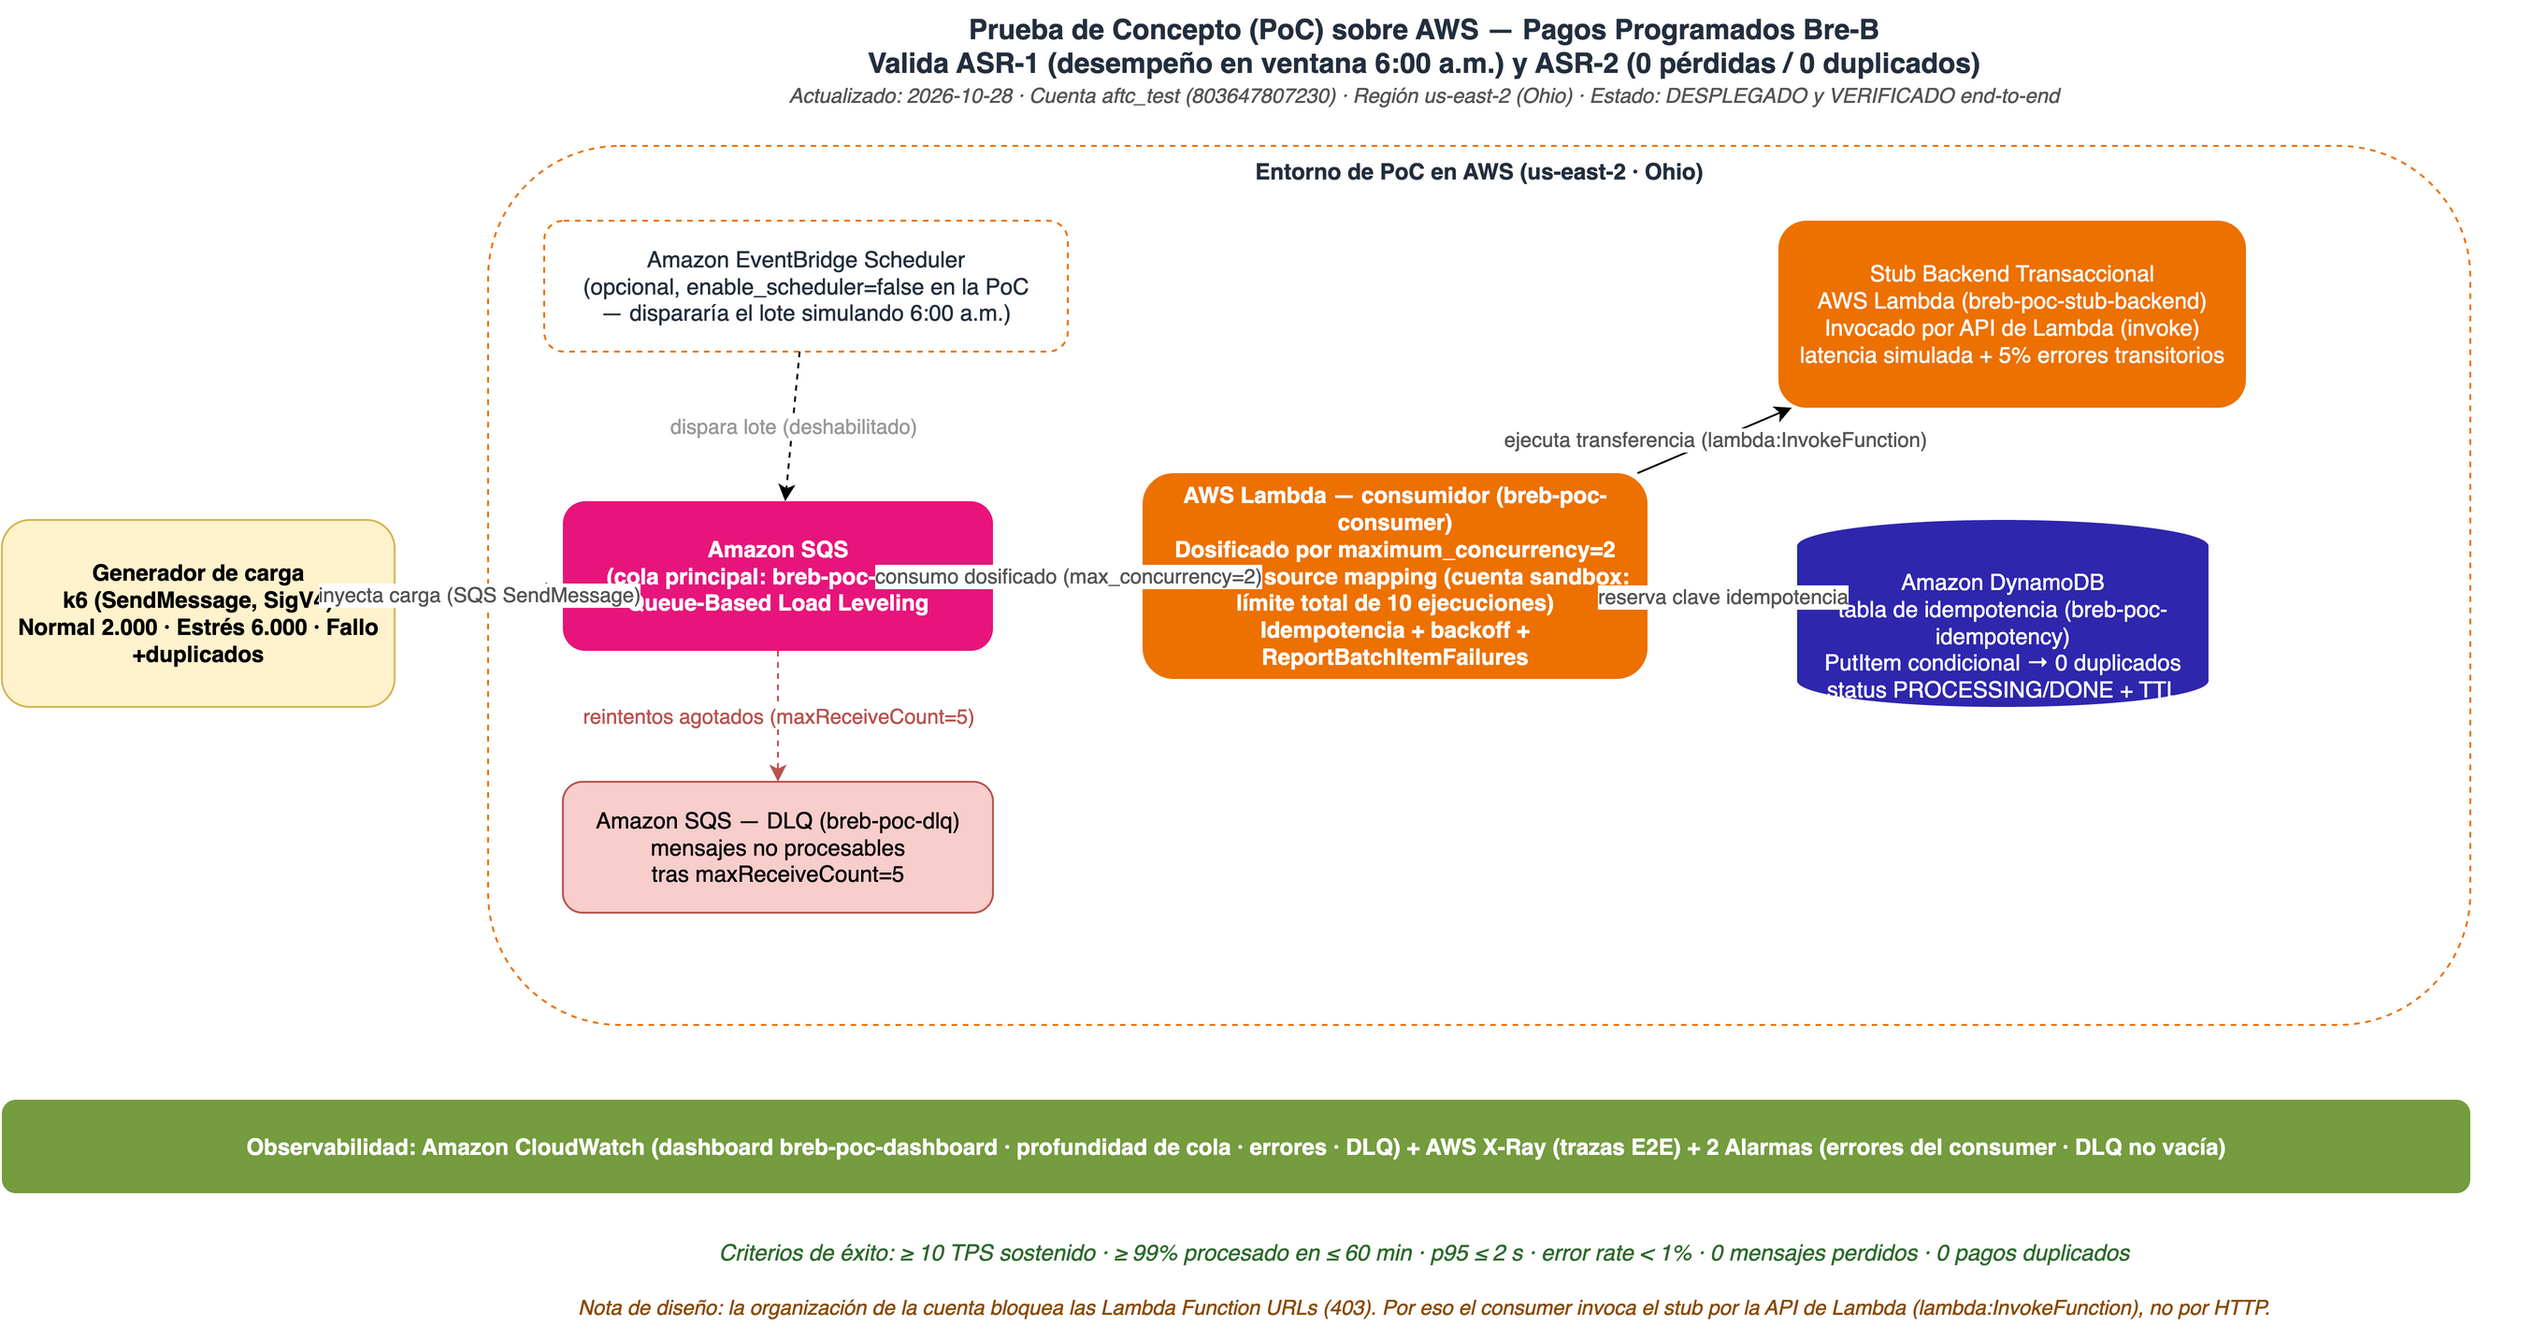
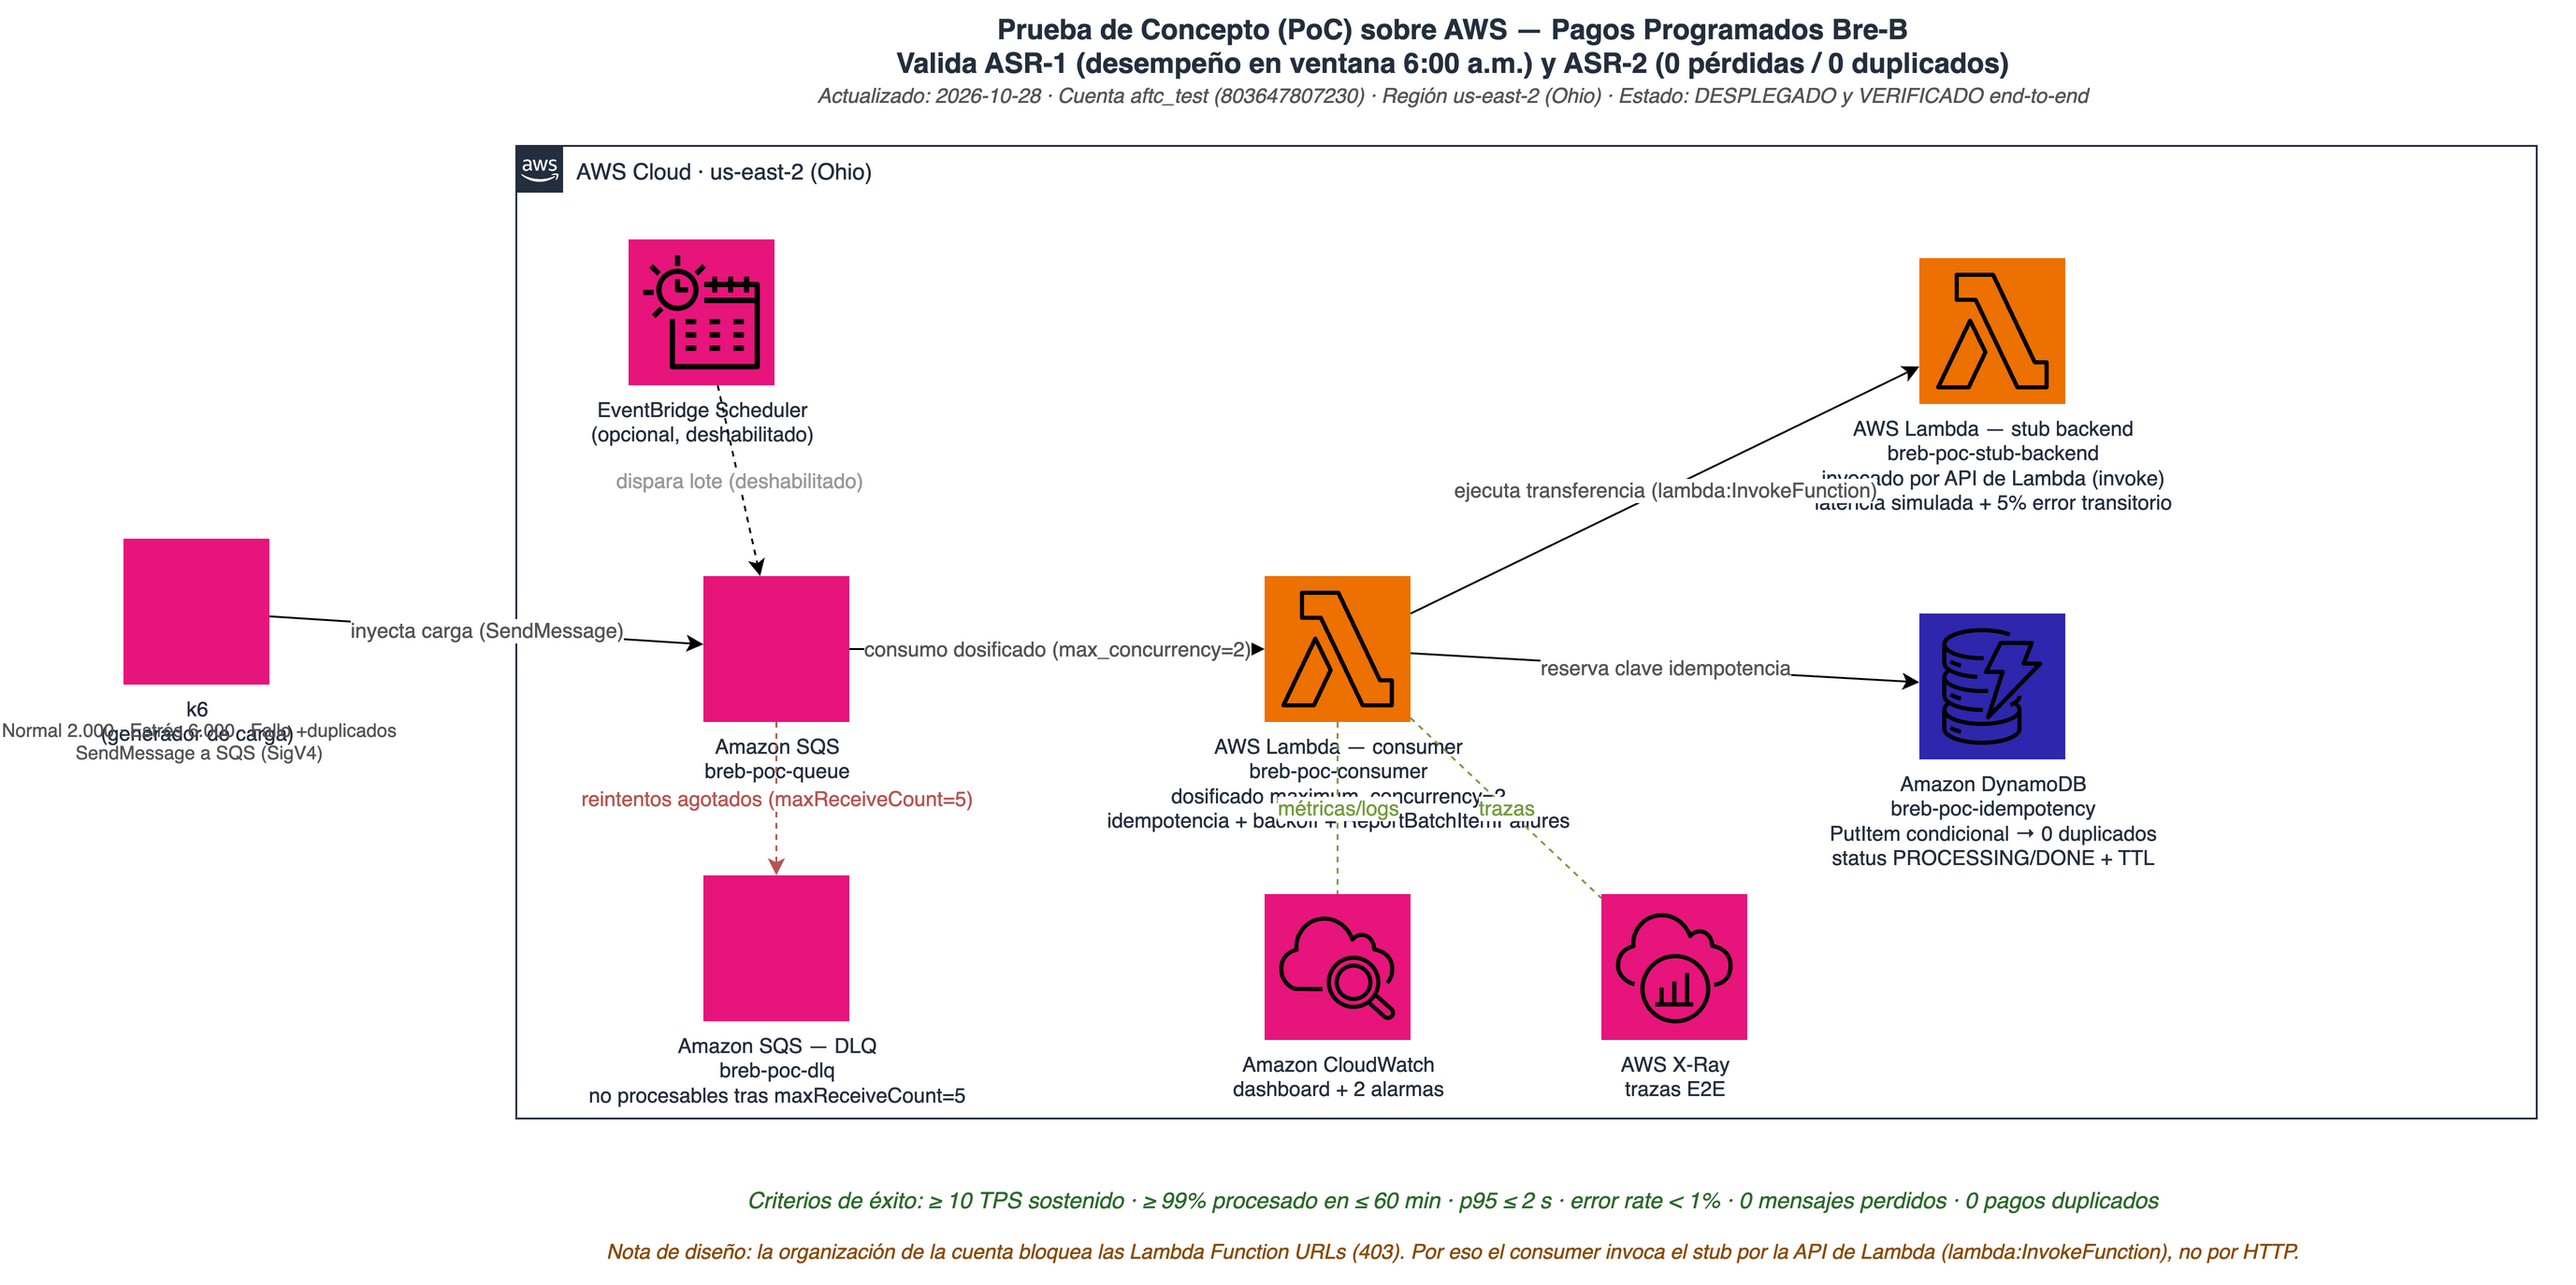
docs: diagrama con iconos oficiales de AWS (mxgraph.aws4) + PNG + sesion: fix credenciales k6

diff --git a/ESTADO_SESION.md b/ESTADO_SESION.md
@@ -101,6 +101,44 @@ Al preparar k6 aparecieron dos problemas en CloudShell:
 Tras liberar espacio y exportar credenciales (ver Key=ASIA... Token set? yes),
 reintentar: `export QUEUE_URL=...; cd ~/ArquitecturaCloudPoc/load; TOTAL=100 k6 run normal.js`
 
+## DÓNDE VAMOS EXACTAMENTE (2026-10-28 ~01:30)
+
+Estado: PoC desplegada y VERIFICADA end-to-end (processed + DynamoDB DONE). ✅
+Diagrama rehecho con ÍCONOS OFICIALES de AWS (shapes mxgraph.aws4) + PNG regenerado.
+Guía de consola web creada. Todo en GitHub.
+
+Tarea en curso: correr pruebas de carga k6 desde CloudShell. Pasos ya resueltos:
+- k6 instalado en ~/bin/k6 (v0.49.0). OK.
+- Espacio: home al 92% (ArquitecturaCloudPoc pesa 693M, sobre todo .git/.terraform).
+  No bloquea k6. Limpieza opcional: `git gc --aggressive --prune=now`.
+- Credenciales: obtenerlas SOLO con `eval "$(aws configure export-credentials --format env)"`.
+  NO usar el fallback de jq/python (devuelve vacío y las pisa).
+
+PROBLEMA ACTUAL: aunque las vars están exportadas (AKID=ASIA3W SECRET? yes TOKEN? yes),
+k6 sigue diciendo "invalid AWS access key ID ... undefined". Causa: k6 no copia el
+entorno a __ENV de forma fiable. SOLUCIÓN: pasar las credenciales con -e explícito:
+
+```bash
+export AWS_REGION=us-east-2
+eval "$(aws configure export-credentials --format env)"
+export QUEUE_URL=$(cd ~/ArquitecturaCloudPoc/terraform && terraform output -raw queue_url)
+cd ~/ArquitecturaCloudPoc/load
+k6 run \
+  -e AWS_REGION=us-east-2 \
+  -e AWS_ACCESS_KEY_ID="$AWS_ACCESS_KEY_ID" \
+  -e AWS_SECRET_ACCESS_KEY="$AWS_SECRET_ACCESS_KEY" \
+  -e AWS_SESSION_TOKEN="$AWS_SESSION_TOKEN" \
+  -e QUEUE_URL="$QUEUE_URL" \
+  -e TOTAL=100 \
+  normal.js
+```
+
+Si TOTAL=100 entra bien → repetir con -e TOTAL=2000 (corrida completa).
+NOTA: las credenciales de CloudShell CADUCAN; si tras un rato k6 da 403/expired,
+volver a correr el `eval` para refrescarlas.
+
+Tras la carga: ver CloudWatch dashboard (cola llenándose/drenando), DLQ en 0.
+
 ### Después de verificar (pendientes)
 
 1. (Opcional) Purgar la cola antes de la prueba de carga — hay mensajes viejos
